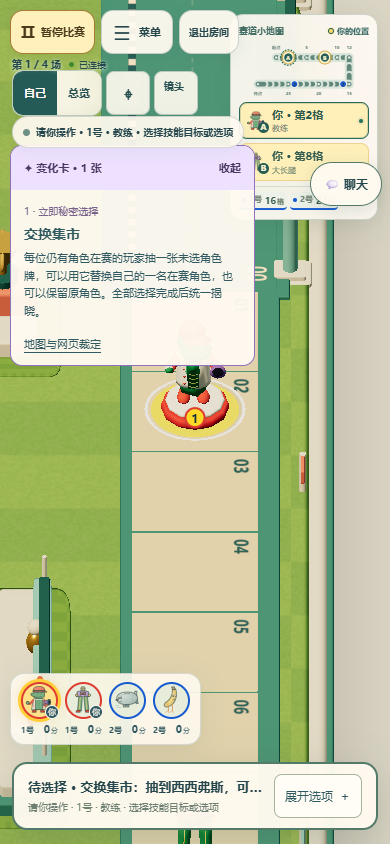
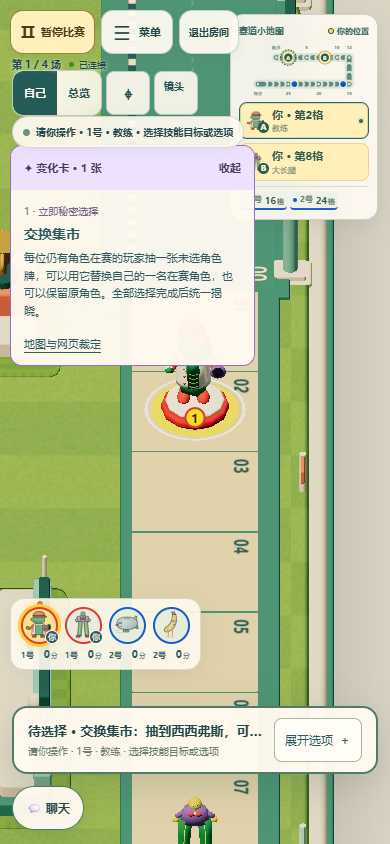
下移手机和桌面聊天并为技能选项与角色条留出空间

Changed region(s): [[0.0308, 0.7085, 0.9846, 0.9858], [0.8, 0.1848, 0.9846, 0.2464]]

diff --git a/tests/browser/chat-layout.spec.ts b/tests/browser/chat-layout.spec.ts
@@ -34,6 +34,7 @@ async function fixture(browser: Browser, viewport: { width: number; height: numb
     localStorage.setItem(`magical-athlete:identity:${identity.roomCode}`, JSON.stringify(identity));
     localStorage.setItem('magical-athlete:low-quality', 'true');
     localStorage.setItem('magical-athlete:muted', 'true');
+    localStorage.setItem('magical-athlete:reduced-motion', 'true');
   }, created.identity);
   const page = await context.newPage(), errors: string[] = [];
   page.on('pageerror', error => errors.push(error.message));
@@ -54,22 +55,20 @@ async function rect(page: Page) {
   return page.getByTestId('room-community').evaluate(element => {
     const box = element.getBoundingClientRect();
     const child = element.querySelector('.room-chat,.chat-toggle')!.getBoundingClientRect();
-    return { top: box.top, right: innerWidth - box.right, height: box.height, childHeight: child.height };
+    return { top: box.top, bottom: innerHeight-box.bottom, right: innerWidth - box.right, height: box.height, childHeight: child.height };
   });
 }
 async function stable(page: Page, before: Awaited<ReturnType<typeof rect>>, open: boolean) {
-  await expect.poll(async () => Math.abs((await rect(page)).top - before.top)).toBeLessThan(1);
+  await expect.poll(async () => Math.abs((await rect(page)).bottom - before.bottom)).toBeLessThan(1);
   const after = await rect(page); expect(Math.abs(after.right - before.right)).toBeLessThan(1);
-  // A stale bottom constraint would stretch this top-anchored portal into an
-  // invisible overlay that intercepts clicks below its visible contents.
+  // A stale top constraint would stretch this bottom-anchored portal into an
+  // invisible overlay that intercepts clicks above its visible contents.
   expect(Math.abs(after.height - after.childHeight)).toBeLessThan(1);
   if (open) expect(Math.abs(after.height - before.height)).toBeLessThan(1);
-  if((page.viewportSize()?.width??0)>650){
-    expect(await page.evaluate(()=>{
+  expect(await page.evaluate(()=>{
       const chat=document.querySelector('[data-testid="room-community"]')!.getBoundingClientRect(),map=document.querySelector('[data-testid="board-minimap"]')!.getBoundingClientRect();
       return Math.min(chat.right,map.right)>Math.max(chat.left,map.left)&&Math.min(chat.bottom,map.bottom)>Math.max(chat.top,map.top);
-    }),'desktop chat must leave the entire minimap visible').toBe(false);
-  }
+    }),'chat must leave the entire minimap visible').toBe(false);
 }
 async function accessibleChoice(page: Page) {
   const choice = page.getByTestId('skill-choice');
@@ -77,11 +76,11 @@ async function accessibleChoice(page: Page) {
     const chat = document.querySelector('[data-testid="room-chat"]')!.getBoundingClientRect();
     const skill = document.querySelector('[data-testid="skill-choice"]')!.getBoundingClientRect();
     const map=document.querySelector('[data-testid="board-minimap"]')!.getBoundingClientRect();
-    return { overlap: Math.min(chat.right, skill.right) > Math.max(chat.left, skill.left) && Math.min(chat.bottom, skill.bottom) > Math.max(chat.top, skill.top), mapOverlap:innerWidth>650&&Math.min(map.right,skill.right)>Math.max(map.left,skill.left)&&Math.min(map.bottom,skill.bottom)>Math.max(map.top,skill.top) };
+    return { overlap: Math.min(chat.right, skill.right) > Math.max(chat.left, skill.left) && Math.min(chat.bottom, skill.bottom) > Math.max(chat.top, skill.top), mapOverlap:Math.min(map.right,skill.right)>Math.max(map.left,skill.left)&&Math.min(map.bottom,skill.bottom)>Math.max(map.top,skill.top) };
   });
   expect(boxes.overlap).toBe(false);
   expect(boxes.mapOverlap).toBe(false);
-  const button = choice.getByRole('button').first(); await button.scrollIntoViewIfNeeded();
+  const button = choice.locator('.choice-options .button').first(); await button.scrollIntoViewIfNeeded();
   expect(await button.evaluate(element => {
     const box = element.getBoundingClientRect(); return element.contains(document.elementFromPoint(box.x + box.width / 2, box.y + box.height / 2));
   })).toBe(true);
@@ -97,21 +96,24 @@ for (const [name, viewport] of [
     const session = await fixture(browser, viewport); const { page, code } = session;
     try {
       const closed = await rect(page); await stable(page, closed, false);
+      const mobile = viewport.width <= 650 || viewport.width <= 1000 && viewport.height <= 570;
+      expect(closed.bottom).toBeLessThan(mobile ? 60 : 150);
+      expect(closed.top).toBeGreaterThan(viewport.height * .65);
       choice(code, 'short'); await expect(page.getByTestId('skill-choice')).toBeVisible(); await stable(page, closed, false);
       const shortHeight = (await page.getByTestId('skill-choice').boundingBox())!.height;
-      choice(code, 'long'); await expect(page.getByTestId('skill-choice').getByRole('button')).toHaveCount(12);
-      expect((await page.getByTestId('skill-choice').boundingBox())!.height).toBeGreaterThan(shortHeight);
+      choice(code, 'long'); await expect(page.getByTestId('skill-choice').locator('.choice-options .button')).toHaveCount(12);
+      expect((await page.getByTestId('skill-choice').boundingBox())!.height).toBeGreaterThanOrEqual(shortHeight);
       await stable(page, closed, false);
       await page.getByRole('button', { name: /^房间聊天/ }).click();
       await expect(page.getByTestId('room-chat')).toBeVisible(); const opened = await rect(page); await stable(page, opened, true);
-      expect(Math.abs(opened.top - closed.top)).toBeLessThan(1); await accessibleChoice(page);
-      choice(code, 'short'); await expect(page.getByTestId('skill-choice').getByRole('button')).toHaveCount(1); await stable(page, opened, true); await accessibleChoice(page);
-      choice(code, 'long'); await expect(page.getByTestId('skill-choice').getByRole('button')).toHaveCount(12); await stable(page, opened, true); await accessibleChoice(page);
+      expect(Math.abs(opened.bottom - closed.bottom)).toBeLessThan(1); await accessibleChoice(page);
+      choice(code, 'short'); await expect(page.getByTestId('skill-choice').locator('.choice-options .button')).toHaveCount(1); await stable(page, opened, true); await accessibleChoice(page);
+      choice(code, 'long'); await expect(page.getByTestId('skill-choice').locator('.choice-options .button')).toHaveCount(12); await stable(page, opened, true); await accessibleChoice(page);
       await page.getByLabel('聊天消息', { exact: true }).fill('选择技能时聊天仍可发送');
       await page.getByRole('button', { name: '发送', exact: true }).click();
       await expect(page.getByLabel('聊天消息', { exact: true })).toHaveValue('');
       await expect(page.getByRole('log')).toContainText('选择技能时聊天仍可发送'); await stable(page, opened, true);
-      if(!process.env.CI){mkdirSync('docs/qa/interaction-feedback', { recursive: true });await page.screenshot({ path: `docs/qa/interaction-feedback/chat-${name}.png` });}
+      if(!process.env.CI){mkdirSync('docs/qa/blimp-choice-skills', { recursive: true });await page.screenshot({ path: `docs/qa/blimp-choice-skills/chat-${name}.png` });}
       if (name === 'phone') {
         // Exercise the existing visualViewport keyboard bridge without assuming
         // that a desktop browser can display the operating system's phone keyboard.
@@ -129,6 +131,22 @@ for (const [name, viewport] of [
         await stable(page, opened, true);
       }
       await page.getByRole('button', { name: '收起聊天' }).click(); await stable(page, closed, false);
+      const room=application.rooms.get(code),sender=room.game.players[1]!;
+      for(let index=0;index<3;index++)expect(application.rooms.chat(code,sender.id,{clientMessageId:crypto.randomUUID(),text:`底部新消息 ${index+1}，聊天提示也要给小地图和技能按钮留出空间。`}).ok).toBe(true);
+      const batch=application.rooms.chatHistory(code,room.hostId);
+      for(const socket of application.io.sockets.sockets.values())if(socket.data.identity?.roomCode===code)socket.emit('chat',batch);
+      await expect(page.getByTestId('chat-notice')).toHaveCount(3);
+      const noticesOverlap=await page.evaluate(()=>{
+        const notices=document.querySelector('.chat-notice-region')!.getBoundingClientRect(),map=document.querySelector('[data-testid="board-minimap"]')!.getBoundingClientRect(),skill=document.querySelector('[data-testid="skill-choice"]')!.getBoundingClientRect();
+        const intersects=(a:DOMRect,b:DOMRect)=>Math.min(a.right,b.right)>Math.max(a.left,b.left)&&Math.min(a.bottom,b.bottom)>Math.max(a.top,b.top);
+        return {map:intersects(notices,map),skill:intersects(notices,skill)};
+      });
+      expect(noticesOverlap).toEqual({map:false,skill:false});
+      const action=page.getByTestId('skill-choice').locator('.choice-options .button').first();await action.scrollIntoViewIfNeeded();
+      expect(await action.evaluate(element=>{const b=element.getBoundingClientRect();return element.contains(document.elementFromPoint(b.x+b.width/2,b.y+b.height/2));})).toBe(true);
+      if(!process.env.CI)await page.screenshot({path:`docs/qa/blimp-choice-skills/chat-notice-${name}.png`});
+      await page.getByRole('button',{name:/^房间聊天/}).click();await expect(page.getByTestId('chat-notice')).toHaveCount(0);
+      await page.getByRole('button',{name:'收起聊天',exact:true}).click();
       choice(code, 'none'); await expect(page.getByTestId('skill-choice')).toHaveCount(0); await stable(page, closed, false);
       expect(session.errors).toEqual([]);
     } finally { await session.context.close(); }

diff --git a/src/client/community.css b/src/client/community.css
@@ -23,28 +23,44 @@ html[data-motion="reduce"] .chat-notice.is-leaving{opacity:0}
 @media(prefers-reduced-motion:reduce){.chat-notice{animation:none!important;will-change:auto}.chat-notice.is-leaving{opacity:0}}
 @media(max-width:650px){.chat-notice-region{gap:6px;max-height:calc(100dvh - 205px)}.chat-notice{padding:8px 10px}.chat-notice span{font-size:12px;-webkit-line-clamp:2}}
 
-/* The desktop map and chat share a side column. Only the map size sets the
-   anchor, so mounting choices cannot make chat jump. */
-body>.room-community.in-race{top:max(90px,var(--chat-minimap-bottom,90px));right:max(20px,env(safe-area-inset-right));bottom:auto;left:auto}
-body>.room-community.in-race .room-chat{width:252px;height:min(440px,max(210px,calc(100dvh - var(--chat-minimap-bottom,90px) - 124px)));max-height:none}
-body>.room-community.in-race .chat-notice-region{top:calc(100% + 10px);bottom:auto;right:0;left:auto;width:252px;max-height:max(80px,calc(100dvh - var(--chat-minimap-bottom,90px) - 160px))}
-@media(max-width:650px){
- body>.room-community.in-race{top:max(8px,min(162px,calc(57dvh - 164px - var(--chat-keyboard-offset,0px))));right:8px;left:auto}
- body>.room-community.in-race.is-open{left:8px;right:8px}
- body>.room-community.in-race .room-chat{width:100%;height:min(290px,max(140px,calc(57dvh - 190px - var(--chat-keyboard-offset,0px) / 2)))}
- body>.room-community.in-race .chat-notice-region{width:min(310px,calc(100vw - 28px));max-height:max(80px,calc(57dvh - 236px - var(--chat-keyboard-offset,0px) / 2))}
+/* Chat stays near the lower controls. Its own measured height reserves room
+   for choices; mounting or resizing a choice never changes the chat anchor. */
+body>.room-community.in-race{top:auto;right:max(20px,env(safe-area-inset-right));bottom:max(118px,env(safe-area-inset-bottom));left:auto}
+body>.room-community.in-race .room-chat{width:252px;height:min(440px,max(160px,calc(100dvh - var(--chat-minimap-bottom,90px) - 146px)));max-height:none}
+body>.room-community.in-race .chat-notice-region{top:auto;bottom:calc(100% + 10px);right:0;left:auto;width:252px;max-height:max(0px,calc(100dvh - var(--chat-minimap-bottom,90px) - 190px))}
+@media(max-width:650px),(max-width:1000px) and (max-height:570px){
+ body>.room-community.in-race{top:auto;bottom:calc(max(14px,env(safe-area-inset-bottom)) + var(--chat-keyboard-offset,0px));left:12px;right:auto}
+ body>.room-community.in-race.is-open{left:8px;right:8px;max-width:none}
+ body>.room-community.in-race .room-chat{width:100%;height:min(300px,max(210px,38dvh),max(210px,calc(100dvh - var(--chat-keyboard-offset,0px) - var(--chat-minimap-bottom,230px) - 180px)));max-height:calc(100dvh - var(--chat-keyboard-offset,0px) - var(--chat-minimap-bottom,230px) - 28px)}
+ body>.room-community.in-race .room-chat header{flex-shrink:0;padding:8px 12px}
+ body>.room-community.in-race .chat-personal{flex-shrink:0;padding:2px 10px}
+ body>.room-community.in-race .room-chat form{flex-shrink:0;padding:7px}
+ body>.room-community.in-race .chat-messages{min-height:0}
+ body>.room-community.in-race .chat-notice-region{position:relative;top:auto;bottom:auto;left:auto;right:auto;margin-bottom:8px;width:min(310px,calc(100vw - 28px));max-height:min(164px,max(0px,calc(100dvh - var(--chat-keyboard-offset,0px) - var(--chat-minimap-bottom,230px) - 90px)))}
+ html[data-view="race"] .floating-choice.choice-panel{bottom:calc(max(14px,env(safe-area-inset-bottom)) + var(--chat-keyboard-offset,0px) + var(--race-chat-height,44px) + 12px);max-height:min(68dvh,calc(100dvh - var(--chat-keyboard-offset,0px) - var(--race-chat-height,44px) - var(--race-minimap-bottom,230px) - 42px))}
+ html[data-view="race"] body .floating-choice.choice-panel.character-choice-panel{max-height:min(68dvh,calc(100dvh - var(--chat-keyboard-offset,0px) - var(--race-chat-height,44px) - var(--race-minimap-bottom,230px) - 42px))}
+ html[data-view="race"] .floating-choice.choice-panel.is-collapsed{max-height:none}
+ html[data-view="race"] .floating-racers{bottom:calc(max(100px,calc(var(--race-chat-height,44px) + 28px)) + var(--chat-keyboard-offset,0px))}
+ html[data-view="race"] body:has(.floating-choice.is-collapsed) .floating-racers{bottom:calc(var(--race-chat-height,44px) + var(--chat-keyboard-offset,0px) + 130px)}
+ body:has(>.room-community.in-race.is-open) .floating-roll,body:has(>.room-community.in-race .chat-notice-region) .floating-roll{bottom:calc(max(14px,env(safe-area-inset-bottom)) + var(--chat-keyboard-offset,0px) + var(--race-chat-height,44px) + 12px)}
 }
-@media(min-width:651px) and (max-width:1200px){
+@media(min-width:651px) and (max-width:1200px) and (min-height:571px){
  body:has(>.room-community.in-race.is-open) .floating-choice.choice-panel,
  body:has(>.room-community.in-race .chat-notice-region) .floating-choice.choice-panel{left:18px;transform:none;width:min(620px,calc(100% - 304px))}
 }
 /* Short landscape viewports put the map alongside chat. */
-@media(min-width:651px) and (max-height:570px){
- body>.room-community.in-race{top:90px}
+@media(min-width:1001px) and (max-height:570px){
+ body>.room-community.in-race{top:auto}
  .immersive-race .board-minimap{top:90px;right:284px;width:190px}
- body>.room-community.in-race .room-chat{height:min(300px,calc(100dvh - 120px))}
+ body>.room-community.in-race .room-chat{height:min(300px,calc(100dvh - 216px))}
  body:has(>.room-community.in-race.is-open) .floating-choice.choice-panel,
  body:has(>.room-community.in-race .chat-notice-region) .floating-choice.choice-panel{left:18px;transform:none;width:calc(100% - 506px)}
+}
+@media(min-width:651px) and (max-width:1000px) and (max-height:570px){
+ .immersive-race .board-minimap{top:8px;right:8px;width:160px}
+ html[data-view="race"] body .floating-choice.choice-panel{left:12px;transform:none;width:calc(100% - 192px);max-height:calc(100dvh - var(--chat-keyboard-offset,0px) - var(--race-chat-height,44px) - 110px)}
+ html[data-view="race"] body .floating-choice.choice-panel.character-choice-panel{max-height:calc(100dvh - var(--chat-keyboard-offset,0px) - var(--race-chat-height,44px) - 110px)}
+ html[data-view="race"] body .floating-choice.choice-panel.is-collapsed{max-height:none}
 }
 
 .continuation-notice{position:fixed;top:8px;left:50%;transform:translateX(-50%);z-index:80;max-width:90vw;padding:9px 16px;border:2px solid var(--ink);border-radius:8px;background:var(--yellow);font-size:12px;text-align:center}

diff --git a/src/client/RoomChat.tsx b/src/client/RoomChat.tsx
@@ -15,6 +15,7 @@ export function RoomChat({ room, community, connection, immersive, onRename }: {
   const [notices,setNotices]=useState<ChatNotice[]>([]);
   const [noticeLimit,setNoticeLimit]=useState(() => matchMedia(`(max-width:${CHAT_NOTICE_CONFIG.mobileBreakpoint}px)`).matches ? CHAT_NOTICE_CONFIG.mobileLimit : CHAT_NOTICE_CONFIG.desktopLimit);
   const noticeRegion=useRef<HTMLDivElement>(null),noticeRects=useRef(new Map<string,DOMRect>());
+  const portal = useRef<HTMLElement>(null);
   const noticed=useRef(community.liveRevision??0);
   const noticedMessage=useRef(community.liveMessages?.at(-1)?.id??0);
   const list = useRef<HTMLDivElement>(null), bottom = useRef(true), initial = useRef(true);
@@ -26,15 +27,23 @@ export function RoomChat({ room, community, connection, immersive, onRename }: {
     if(!immersive)return;
     // Observe the map only. Mounting a pending choice must not move chat.
     let map:HTMLElement|null=null;
-    const update=()=>{if(map)setMinimapBottom(Math.ceil(map.getBoundingClientRect().bottom)+12);};
+    const update=()=>{if(map){const bottom=Math.ceil(map.getBoundingClientRect().bottom)+12;setMinimapBottom(bottom);document.documentElement.style.setProperty('--race-minimap-bottom',`${bottom}px`);}};
     const observer=new ResizeObserver(update);
     const attach=()=>{map=document.querySelector<HTMLElement>('[data-testid="board-minimap"]');if(map){observer.observe(map);update();return true;}return false;};
     // The scene is lazy-loaded; stop observing DOM as soon as it is ready.
     const mounting=new MutationObserver(()=>{if(attach())mounting.disconnect();});
     if(!attach())mounting.observe(document.body,{childList:true,subtree:true});
     window.addEventListener('resize',update);
-    return()=>{observer.disconnect();mounting.disconnect();window.removeEventListener('resize',update);};
+    return()=>{observer.disconnect();mounting.disconnect();window.removeEventListener('resize',update);document.documentElement.style.removeProperty('--race-minimap-bottom');};
   },[immersive,room.round]);
+  useLayoutEffect(() => {
+    if (!immersive || !portal.current) return;
+    // Bottom sheets and live notices reserve their own space. Choices never
+    // participate in this measurement, so resizing a choice cannot move chat.
+    const update = () => document.documentElement.style.setProperty('--race-chat-height', `${Math.ceil(portal.current!.getBoundingClientRect().height)}px`);
+    const observer = new ResizeObserver(update); observer.observe(portal.current); update();
+    return () => { observer.disconnect(); document.documentElement.style.removeProperty('--race-chat-height'); };
+  }, [immersive, open, notices.length]);
   useEffect(()=>{
     const revision=community.liveRevision??0;
     if(open||!community.connected)setNotices([]);
@@ -92,7 +101,7 @@ export function RoomChat({ room, community, connection, immersive, onRename }: {
   };
   // A viewport overlay must not inherit any ancestor's transform/containment:
   // those turn fixed coordinates into page-local coordinates during scenes.
-  return createPortal(<aside className={`room-community ${immersive ? 'in-race' : ''} ${open ? 'is-open' : ''}`} style={{'--chat-minimap-bottom':`${minimapBottom}px`} as CSSProperties} data-testid="room-community" onKeyDown={event => { event.stopPropagation(); if (event.key === 'Escape') setOpen(false); }}>
+  return createPortal(<aside ref={portal} className={`room-community ${immersive ? 'in-race' : ''} ${open ? 'is-open' : ''}`} style={{'--chat-minimap-bottom':`${minimapBottom}px`} as CSSProperties} data-testid="room-community" onKeyDown={event => { event.stopPropagation(); if (event.key === 'Escape') setOpen(false); }}>
     {!open&&notices.length>0&&<div ref={noticeRegion} className="chat-notice-region" aria-live="polite" aria-relevant="additions" aria-label="新聊天消息">{notices.map(notice=><ChatNoticeBubble key={notice.message.id} notice={notice} onOpen={()=>setOpen(true)} />)}</div>}
     {!open && <button className="chat-toggle" aria-label={`房间聊天${unread ? `，${unread} 条未读` : ''}`} aria-expanded={false} onClick={() => setOpen(true)}>💬 聊天{unread > 0 && <b className="chat-unread">{unread}</b>}</button>}
     {open && <section className="room-chat" aria-label="房间聊天" data-testid="room-chat">

diff --git a/src/client/immersive.css b/src/client/immersive.css
@@ -57,7 +57,7 @@ html[data-view="race"] .game-shell{position:fixed;inset:0;max-width:none;padding
 .choice-heading{display:flow-root}
 .choice-collapse{float:right;display:inline-flex;align-items:center;justify-content:center;gap:6px;min-height:44px;padding:6px 10px;margin:-4px -6px 5px 10px;border:1px solid #a6b69c;border-radius:8px;background:#fffdf5;color:#315961;font:inherit;font-size:12px;cursor:pointer}
 .choice-collapse:focus-visible{outline:3px solid #c59029;outline-offset:2px}
-.floating-choice.choice-panel.is-collapsed{padding:10px 14px;max-height:none}
+.floating-choice.choice-panel.is-collapsed{padding:10px 14px;max-height:none;bottom:max(118px,env(safe-area-inset-bottom))}
 .floating-choice.choice-panel.is-collapsed>div:first-child{padding-left:0}
 .collapsed-choice-summary{display:flex;align-items:center;gap:12px}
 .collapsed-choice-summary>span{min-width:0;flex:1}

diff --git a/src/client/scene/scene.css b/src/client/scene/scene.css
@@ -29,7 +29,7 @@
 .minimap-positions small{font-size:9px;font-weight:800;color:#708373}
 .minimap-positions b{font-size:11px;color:#34594e}
 .minimap-positions em{font-size:8px;font-weight:700;font-style:normal;margin-left:1px;color:#708373}
-@media(max-width:650px){
+@media(max-width:650px),(max-width:1000px) and (max-height:570px){
  .scene-camera-toolbar{gap:4px;max-width:calc(100% - 176px)}
  .board-minimap{width:148px;max-width:calc(100% - 24px);padding:9px 8px;border-radius:13px}
  .minimap-heading{font-size:9px;letter-spacing:0}

diff --git a/docs/qa/blimp-choice-skills/README.md b/docs/qa/blimp-choice-skills/README.md
@@ -10,11 +10,13 @@
 
 手机使用可滚动单列，桌面使用并排选项。增加角色选择面板的阅读空间，并保留键盘避让。技能和路线选项都可“收起选项”，缩成待选择提示条，以便查看棋盘、在场角色及其详情；“展开选项”恢复操作，新选择自动展开。收起与展开不提交动作、不改变待选状态。无规则结算、随机算法或 CI 工作流改动。
 
+聊天入口和面板也移到下方：手机在左下角打开底部面板；桌面在右侧靠下，位于掷骰区域上方。聊天自身的实际高度为选项和在场角色预留空间，选择面板的长短不会反过来移动聊天。手机键盘弹出、短横屏和连续新消息均保留小地图与选项的可操作区域。
+
 ## 本地验证
 
 - `pnpm typecheck`：客户端、Node 与 Worker 类型检查通过。
-- 定向单元 **161/161**：选择投影、秘密信息、交换集市、角色详情、两档模型预算及静态/独立动画实例。
-- 浏览器 **8 个定向用例**：桌面/手机各覆盖交换集市的比较、详情、收起后对照角色、展开、刷新、私密承诺和实际替换；蛋、电影制作人、重复冠军双胞胎的提示与真实选择；已有抽卡详情回归；飞艇玩家棋子与场地标记的两档载入、实际移动和刷新。
+- 定向单元 **183/183**：选择投影、秘密信息、交换集市、角色详情、两档模型预算、静态/独立动画实例，以及聊天同步、未读、通知寿命和隔离。
+- 浏览器 **12 个定向用例**：桌面/手机各覆盖交换集市的比较、详情、收起后对照角色、展开、刷新、私密承诺和实际替换；蛋、电影制作人、重复冠军双胞胎的提示与真实选择；已有抽卡详情回归；飞艇玩家棋子与场地标记的两档载入、实际移动和刷新；既有聊天布局4项覆盖桌面、小电脑、手机和短横屏，同时检查3条实时消息、发送、输入、软键盘模拟及小地图/选项矩形不相交与按钮可点击。
 - `pnpm build` 与本地 Worker dry run 通过；构建只有既有的大 chunk 提示。
 - 高/低模型分别为 **1,959,388 / 1,083,404 字节**；飞艇 **2,898 / 2,120 三角形、1 个 draw、5 个骨骼、5 段动画**，贴地 pivot 为 0。两档仍满足既有模型预算。
 - 逐个比较原包与替换后包，其余 **35 名角色在两档的顶点属性和索引均一致**；其他角色的动画名称集合一致。见 [模型核验](model-verification.json)。
@@ -31,6 +33,8 @@
 | 交换集市技能比较 | [桌面](swap-desktop.png)、[手机](swap-phone.png) |
 | 抽卡技能提示 | [桌面](draw-desktop.png)、[手机](draw-phone.png) |
 | 收起后对照在场角色 | [桌面](collapsed-desktop.png)、[手机](collapsed-phone.png) |
+| 聊天下移且保留选项和小地图 | [桌面](chat-desktop.png)、[小电脑](chat-small-desktop.png)、[手机](chat-phone.png)、[短横屏](chat-landscape.png) |
+| 连续新消息也避让选项和小地图 | [桌面](chat-notice-desktop.png)、[手机](chat-notice-phone.png)、[短横屏](chat-notice-landscape.png) |
 
 ## 单个模型重建
 
